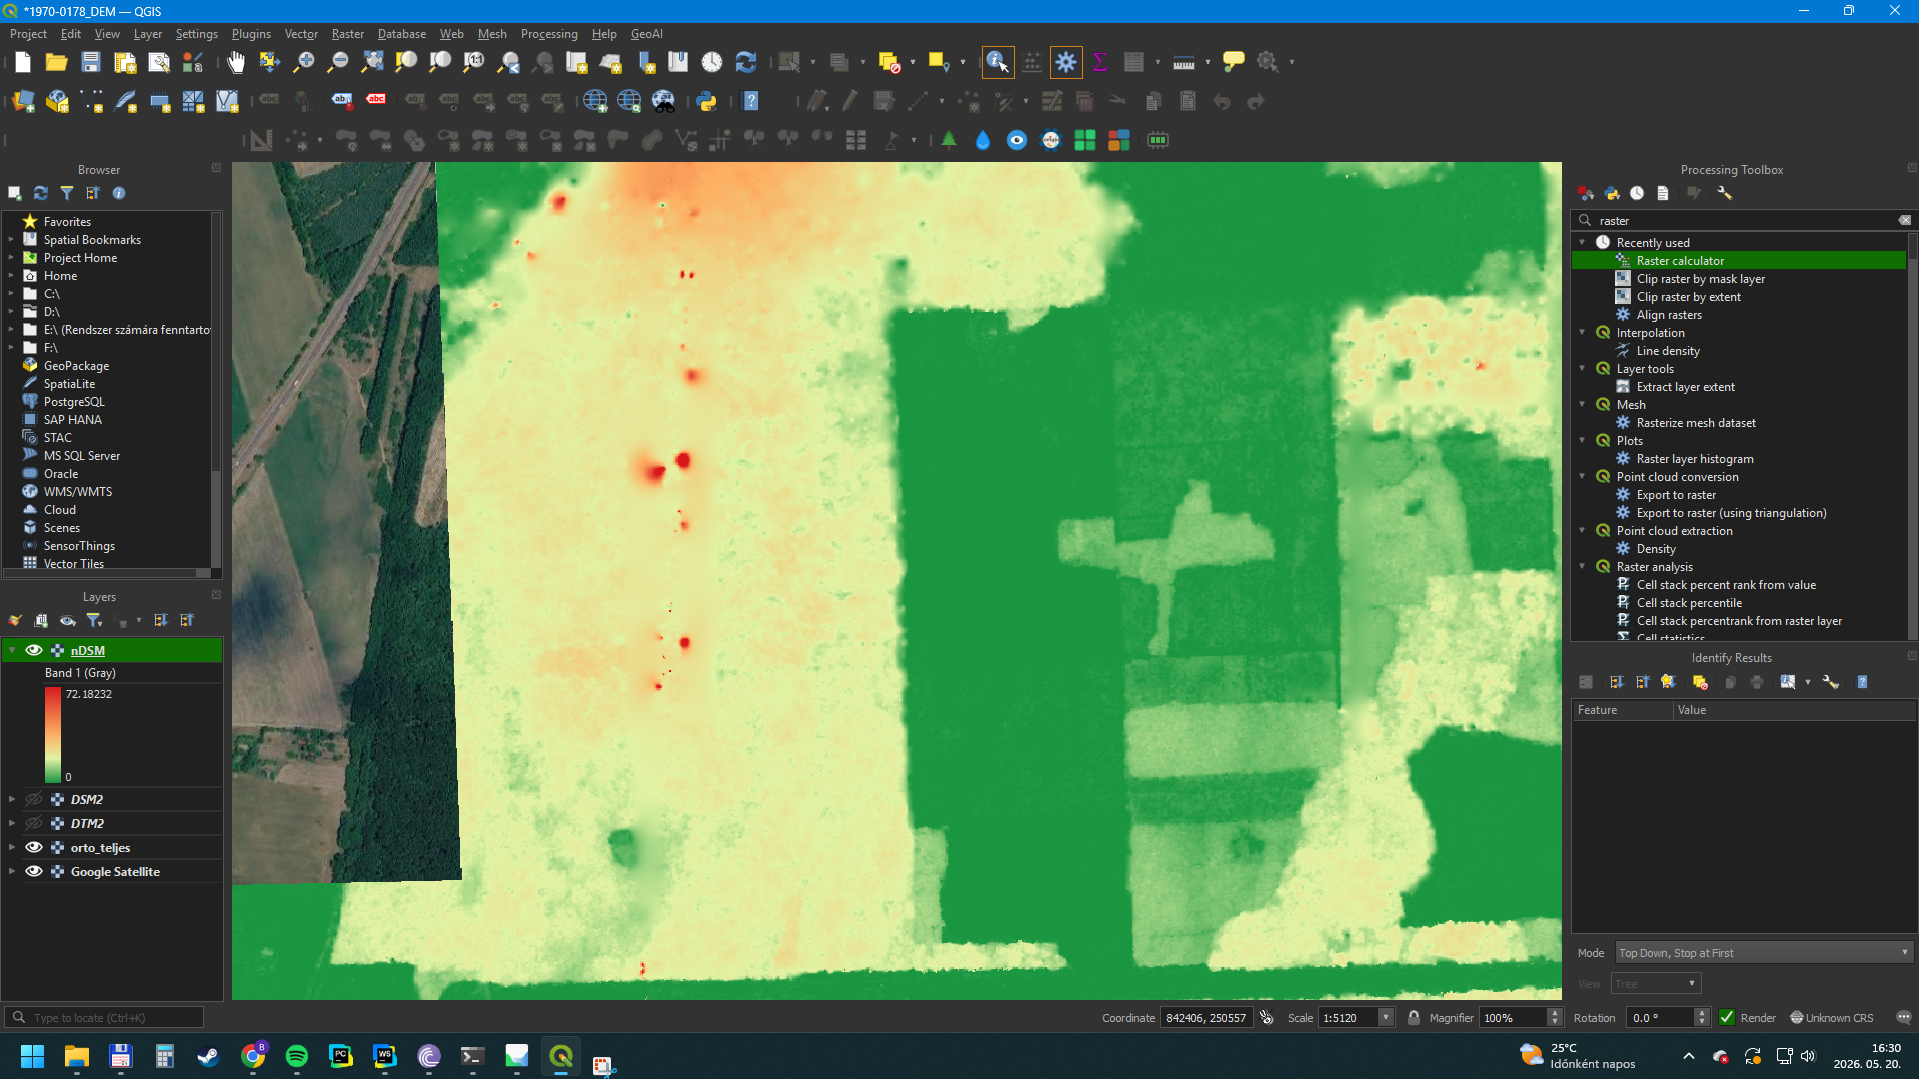
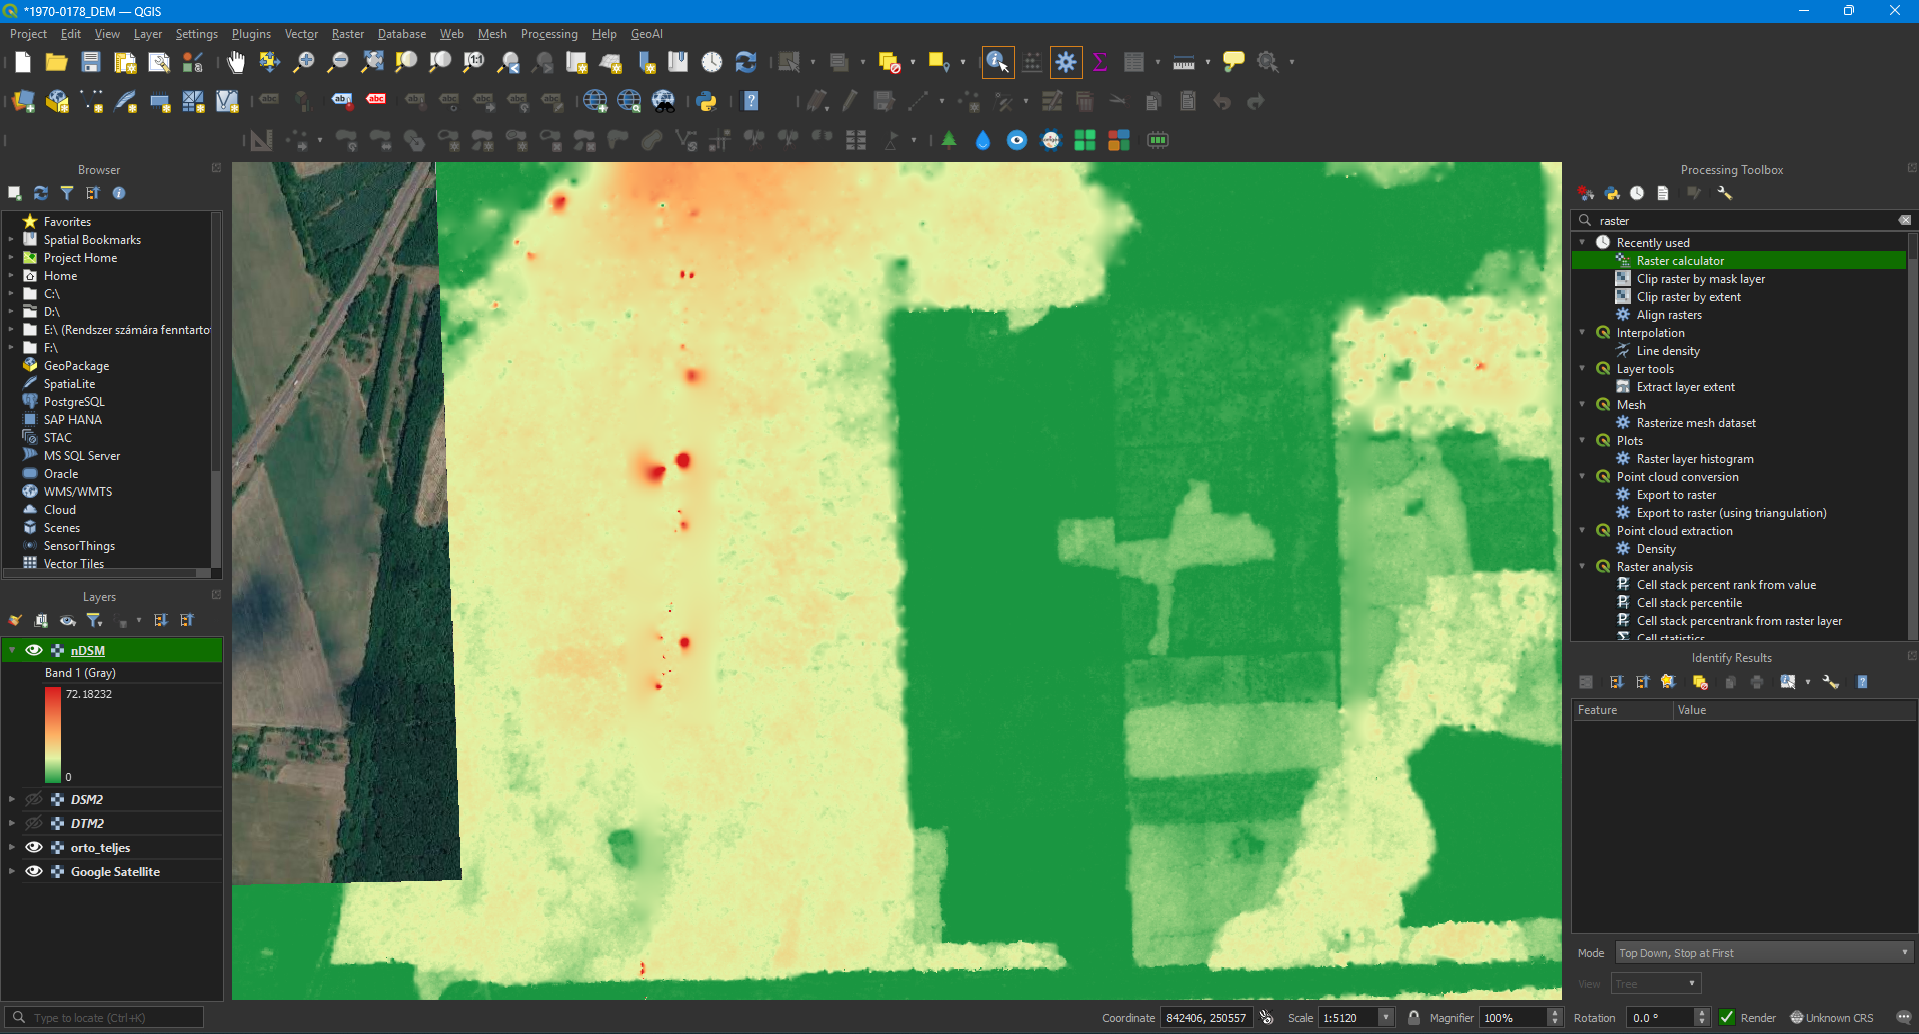
2. commit

diff --git a/projects/proj_debdem.html b/projects/proj_debdem.html
@@ -3,7 +3,7 @@
 <head>
   <meta charset="UTF-8">
   <meta name="viewport" content="width=device-width, initial-scale=1.0">
-  <title>Digitális topográfiai modellek</title>
+  <title>Digitális felszínmodellek</title>
   <script src="https://cdn.tailwindcss.com"></script>
 </head>
 <body class="bg-gray-900 text-white">
@@ -79,19 +79,19 @@
   <div class="grid grid-cols-1 sm:grid-cols-2 md:grid-cols-3 gap-6 mb-6">
     <div class="gallery-item group overflow-hidden rounded-lg shadow-lg bg-gray-900 cursor-pointer flex flex-col">
       <div class="aspect-video overflow-hidden">
-        <img src="../images/workflow_screenshot_ffm.png" alt="kép1" class="gallery-img w-full h-full object-cover transition duration-300 ease-in-out transform group-hover:scale-105">
+        <img src="../images/workflow_screenshot_ffm.png" alt="Az első sikeres nDSM térképem. A vízszintes pontosság eléggé gyatra (az interpolálás miatti elmosódások miatt), de a függőleges pontossága meglepően jó lett (<1m).  " class="gallery-img w-full h-full object-cover transition duration-300 ease-in-out transform group-hover:scale-105">
       </div>
       <div class="p-3 text-sm text-gray-300 bg-gray-900 text-center">
-
+        Az első sikeres nDSM térképem. A vízszintes pontosság eléggé gyatra (az interpolálás miatti "elmosódások" miatt), de a függőleges pontossága meglepően jó lett (<1m).
       </div>
     </div>
 
     <div class="gallery-item group overflow-hidden rounded-lg shadow-lg bg-gray-900 cursor-pointer flex flex-col">
       <div class="aspect-video overflow-hidden">
-        <img src="../images/workflow_screenshot_demhiba.png" alt="" class="gallery-img w-full h-full object-cover transition duration-300 ease-in-out transform group-hover:scale-105">
+        <img src="../images/workflow_screenshot_demhiba.png" alt="A digitalizált felvételek sajátossága, a szkennelési hibák, egyéb zaj miatt anomáliák jelennek meg, ezeket maszkolással, küszöböléssel szoktam szűrni." class="gallery-img w-full h-full object-cover transition duration-300 ease-in-out transform group-hover:scale-105">
       </div>
       <div class="p-3 text-sm text-gray-300 bg-gray-900 text-center">
-        A digitalizált felvételek sajátossága
+        A digitalizált felvételek sajátossága, a szkennelési hibák, egyéb zaj miatt anomáliák jelennek meg, ezeket maszkolással, küszöböléssel szoktam szűrni.
       </div>
     </div>
 
@@ -124,6 +124,9 @@
   <p class="text-3xl text-center text-gray-300 leading-relaxed mb-6">
     Feltöltés alatt
   </p>
+  <p class="text-gray-300 leading-relaxed mb-2">
+
+  </p>
 </section>
 
 <!-- RESULTS -->
@@ -149,37 +152,34 @@
 <!-- WORKFLOW -->
 <section class="p-10 max-w-4xl mx-auto">
   <h2 class="text-3xl mb-6">Feldolgozási workflow</h2>
-  <p class="text-3xl text-center text-gray-300 leading-relaxed mb-6">
-    Feltöltés alatt
-  </p>
 
-  <!--<div class="space-y-6">
+  <div class="space-y-6">
     <div class="bg-gray-800 p-6 rounded-xl">
-      <h3 class="text-xl mb-2">1. </h3>
-      <p class="text-gray-400"></p>
+      <h3 class="text-xl mb-2">1. Fotogrammetriai feldolgozás </h3>
+      <p class="text-gray-400">Kameraparaméterek megadása, kamerahelyzetek visszaállítása, relatív és abszolút tájékozás</p>
     </div>
 
     <div class="bg-gray-800 p-6 rounded-xl">
-      <h3 class="text-xl mb-2">2. </h3>
-      <p class="text-gray-400"></p>
+      <h3 class="text-xl mb-2">2. Pontfelhő generálás</h3>
+      <p class="text-gray-400">Metashapeben, depth map alapján</p>
     </div>
 
     <div class="bg-gray-800 p-6 rounded-xl">
-      <h3 class="text-xl mb-2">3. </h3>
-      <p class="text-gray-400"></p>
+      <h3 class="text-xl mb-2">3. Pontfelhő osztályozás</h3>
+      <p class="text-gray-400">A földi pontok szétválogatása</p>
     </div>
 
     <div class="bg-gray-800 p-6 rounded-xl">
-      <h3 class="text-xl mb-2">4. </h3>
-      <p class="text-gray-400"></p>
+      <h3 class="text-xl mb-2">4. DTM, DSM előállítása</h3>
+      <p class="text-gray-400">Metashapeben, domborzat és felszínmodell létrehozása </p>
     </div>
 
     <div class="bg-gray-800 p-6 rounded-xl">
-      <h3 class="text-xl mb-2">5. </h3>
-      <p class="text-gray-400"></p>
+      <h3 class="text-xl mb-2">5. Tisztítási és analitikai műveletek</h3>
+      <p class="text-gray-400">QGIS, resampling, cliping, keresőablakos műveletek, stb...</p>
     </div>
 
-  </div>-->
+  </div>
 </section>
 
 <!-- CONTACT -->

diff --git a/projects/proj_ML.html b/projects/proj_ML.html
@@ -43,11 +43,12 @@
         <span class="bg-gray-800/80 px-4 py-1 rounded-full text-sm text-gray-200">Fotogrammetria</span>
         <span class="bg-gray-800/80 px-4 py-1 rounded-full text-sm text-gray-200">Agisoft Metashape</span>
         <span class="bg-gray-800/80 px-4 py-1 rounded-full text-sm text-gray-200">QGIS</span>
-        <span class="bg-gray-800/80 px-4 py-1 rounded-full text-sm text-gray-200">ortofotó, ortomozaik</span>
+        <span class="bg-gray-800/80 px-4 py-1 rounded-full text-sm text-gray-200">Ortofotó, ortomozaik</span>
         <span class="bg-gray-800/80 px-4 py-1 rounded-full text-sm text-gray-200">DSM</span>
         <span class="bg-gray-800/80 px-4 py-1 rounded-full text-sm text-gray-200">DTM</span>
         <span class="bg-gray-800/80 px-4 py-1 rounded-full text-sm text-gray-200">nDSM</span>
-        <span class="bg-gray-800/80 px-4 py-1 rounded-full text-sm text-gray-200">épületkinyerés</span>
+        <span class="bg-gray-800/80 px-4 py-1 rounded-full text-sm text-gray-200">Épületkinyerés</span>
+        <span class="bg-gray-800/80 px-4 py-1 rounded-full text-sm text-gray-200">Neurális hálózat</span>
         <span class="bg-gray-800/80 px-4 py-1 rounded-full text-sm text-gray-200">UNet</span>
         <span class="bg-gray-800/80 px-4 py-1 rounded-full text-sm text-gray-200">GeoAI</span>
 
@@ -83,10 +84,10 @@
   <div class="grid grid-cols-1 sm:grid-cols-2 md:grid-cols-3 gap-6 mb-2">
     <div class="gallery-item group overflow-hidden rounded-lg shadow-lg bg-gray-900 cursor-pointer flex flex-col">
       <div class="aspect-video overflow-hidden">
-        <img src="../images/workflow_screenshot_MLfirst.png" alt="A legelső működő modellem. Nagyon rossz eredményeket adott, kevés volt a tanuló adat, de a sajátom." class="gallery-img w-full h-full object-cover transition duration-300 ease-in-out transform group-hover:scale-105">
+        <img src="../images/workflow_screenshot_MLfirst.png" alt="A legelső működő modellem. Nagyon rossz eredményeket adott, kevés és rossz minőségű is volt a tanuló adat, egy nagyon gyenge számítógépen volt futtatva az egész, de mégis nagy előrelépés volt." class="gallery-img w-full h-full object-cover transition duration-300 ease-in-out transform group-hover:scale-105">
       </div>
       <div class="p-3 text-sm text-gray-300 bg-gray-900 text-center">
-        A legelső "működő" modellem. Nagyon rossz eredményeket adott, kevés volt a tanuló adat, de a sajátom.
+        A legelső "működő" modellem. Nagyon rossz eredményeket adott, kevés és rossz minőségű is volt a tanuló adat, egy nagyon gyenge számítógépen volt futtatva az egész, de mégis nagy előrelépés volt.
       </div>
     </div>
 
@@ -104,7 +105,7 @@
         <img src="../images/workflow_screenshot_ML1.png" alt="A tanítóterületek megadása kézzel történik, többféle adat alapján (ortofotók, felszínmodellek, mai műholdas képek, OSM building adatok)" class="gallery-img w-full h-full object-cover transition duration-300 ease-in-out transform group-hover:scale-105">
       </div>
       <div class="p-3 text-sm text-gray-300 bg-gray-900 text-center">
-        A tanítóterületek megadása kézzel történik, többféle adat alapján (ortofotók, felszínmodellek, mai műholdas képek, OSM building adatok)
+        A címkézés kézzel történik, többféle adat alapján (ortofotók, felszínmodellek, mai műholdas képek, OSM building adatok)
       </div>
     </div>
 
@@ -128,7 +129,12 @@
   <p class="text-3xl text-center text-gray-300 leading-relaxed mb-6">
     Feltöltés alatt
   </p>
+  <p class="text-gray-300 leading-relaxed mb-2">
+    Már az első ortomozaikom elkészítésekor megvolt az ötlet, hogy de menő lenne automatizáltan osztályozni a fekete-fehér légifényképek tartalmát, és ezzel <a href="proj_debchangedet.html" class="text-blue-400 hover:underline">a városok szerkezetének változását</a> detektálni.
+  </p>
+  <p class="text-gray-300 leading-relaxed mb-2">
 
+  </p>
 </section>
 
 <!-- RESULTS -->

diff --git a/index.html b/index.html
@@ -27,7 +27,7 @@
         <h2 class="text-3xl font-semibold mb-10 text-center">Bemutatkozás</h2>
         <p class="text-gray-400 text-xl max-w-5xl mx-auto mb-8 px-4 sm:px-0">
             Pályakezdő földmérő és földrendező mérnök vagyok, terepi és irodai munkatapasztalattal.
-            Különösen érdekelnek a drónos felmérések, a távérzékelési eljárások, a fotogrammetriai feldolgozások és a térinformatikai elemzések.
+            Különösen érdekelnek a távérzékelési eljárások, a fotogrammetriai feldolgozások és a térinformatikai elemzések.
             Szabadidőmben is szívesen foglalkozom ezekkel a területekkel: saját projekteken keresztül
             folyamatosan fejlesztem magam, amiknek az eredményeit ezen az oldalon mutatom be.
         </p>
@@ -63,19 +63,19 @@
             </div>
         </a>
 
-        <!-- nadap -->
-        <a href="projects/proj_nadap.html" class="group flex flex-col bg-gray-900 rounded-2xl overflow-hidden border border-gray-800/60 hover:border-blue-500/30 transition-all duration-300 shadow-xl hover:shadow-blue-500/5">
+        <!-- dem -->
+        <a href="projects/proj_debdem.html" class="group flex flex-col bg-gray-900 rounded-2xl overflow-hidden border border-gray-800/60 hover:border-amber-500/30 transition-all duration-300 shadow-xl hover:shadow-amber-500/5">
             <div class="relative h-56 overflow-hidden bg-gray-950">
-                <img src="images/nadap.png" alt="3D modell készítése" class="w-full h-full object-cover transition-transform duration-500 group-hover:scale-105">
+                <img src="images/DSM.png" alt="Digitális topográfiai modellek" class="w-full h-full object-cover transition-transform duration-500 group-hover:scale-105">
                 <div class="absolute inset-0 bg-gradient-to-t from-gray-900 via-transparent to-transparent opacity-60"></div>
                 <div class="absolute top-4 left-4">
-                    <span class="bg-blue-500/20 backdrop-blur-md border border-blue-500/30 text-blue-400 text-xs font-medium px-3 py-1 rounded-md uppercase tracking-wider">Bővítendő</span>
+                    <span class="bg-amber-500/20 backdrop-blur-md border border-amber-500/30 text-amber-400 text-xs font-medium px-3 py-1 rounded-md uppercase tracking-wider">Folyamatban</span>
                 </div>
             </div>
             <div class="p-6 flex flex-col flex-grow">
-                <h3 class="text-xl font-bold text-white group-hover:text-blue-400 transition-colors mb-3">3D modell okostelefonnal</h3>
-                <p class="text-slate-400 text-sm leading-relaxed flex-grow line-clamp-4">
-                    Amatőr kamerás fényképek fotogrammetriai feldolgozásának vizsgálata. Egyetemi beadandó volt. A jövőben tervezem a kiegészítését.
+                <h3 class="text-xl font-bold text-white group-hover:text-amber-400 transition-colors mb-3">Digitális felszínmodellek</h3>
+                <p class="text-slate-500 text-sm italic flex-grow">
+                    A projekt dokumentációja jelenleg kidolgozás alatt áll. Felszínmodellek generálása archív légifotók alapján Debrecen területére.
                 </p>
             </div>
         </a>

diff --git a/aboutme.html b/aboutme.html
@@ -64,7 +64,49 @@
     </div>
 </section>
 
-<!-- TANULMÁNYOK TIMELINE -->
+<!-- munkatapasztalat -->
+<section id="work" class="p-6 max-w-6xl mx-auto">
+    <div class="mb-16">
+        <h3 class="text-2xl font-semibold mb-10 text-center">Munkatapasztalat</h3>
+
+        <div class="relative border-l border-gray-700 max-w-3xl mx-auto">
+
+            <!-- deczki -->
+            <div class="mb-10 ml-6">
+                <!-- pötty -->
+                <span class="absolute -left-3 flex items-center justify-center w-6 h-6 bg-blue-500 rounded-full ring-8 ring-gray-900"></span>
+
+                <div class="bg-gray-800 p-6 rounded-2xl">
+                    <h4 class="text-lg font-semibold">Földmérő mérnök</h4>
+                    <p class="text-gray-400 text-sm">Deczki Földmérő Kft. • 2025 – 2026</p>
+                </div>
+            </div>
+
+            <!-- fhiv -->
+            <div class="mb-10 ml-6">
+                <!-- pötty -->
+                <span class="absolute -left-3 flex items-center justify-center w-6 h-6 bg-blue-500 rounded-full ring-8 ring-gray-900"></span>
+
+                <div class="bg-gray-800 p-6 rounded-2xl">
+                    <h4 class="text-lg font-semibold">Földmérő gyakornok </h4>
+                    <p class="text-gray-400 text-sm">HBVMKH Földhivatali Főosztály, Földmérési és Földügyi Osztály • 2024 – 2024</p>
+                </div>
+            </div>
+
+            <!-- deczki -->
+            <div class="mb-10 ml-6">
+                <span class="absolute -left-3 flex items-center justify-center w-6 h-6 bg-blue-500 rounded-full ring-8 ring-gray-900"></span>
+
+                <div class="bg-gray-800 p-6 rounded-2xl">
+                    <h4 class="text-lg font-semibold">Földmérő gyakornok</h4>
+                    <p class="text-gray-400 text-sm">Deczki Földmérő Kft. • 2024 – 2024</p>
+                </div>
+            </div>
+
+        </div>
+    </div>
+</section>
+
 <section id="studies" class="p-6 max-w-6xl mx-auto">
     <div class="mb-16">
         <h3 class="text-2xl font-semibold mb-10 text-center">Tanulmányok</h3>
